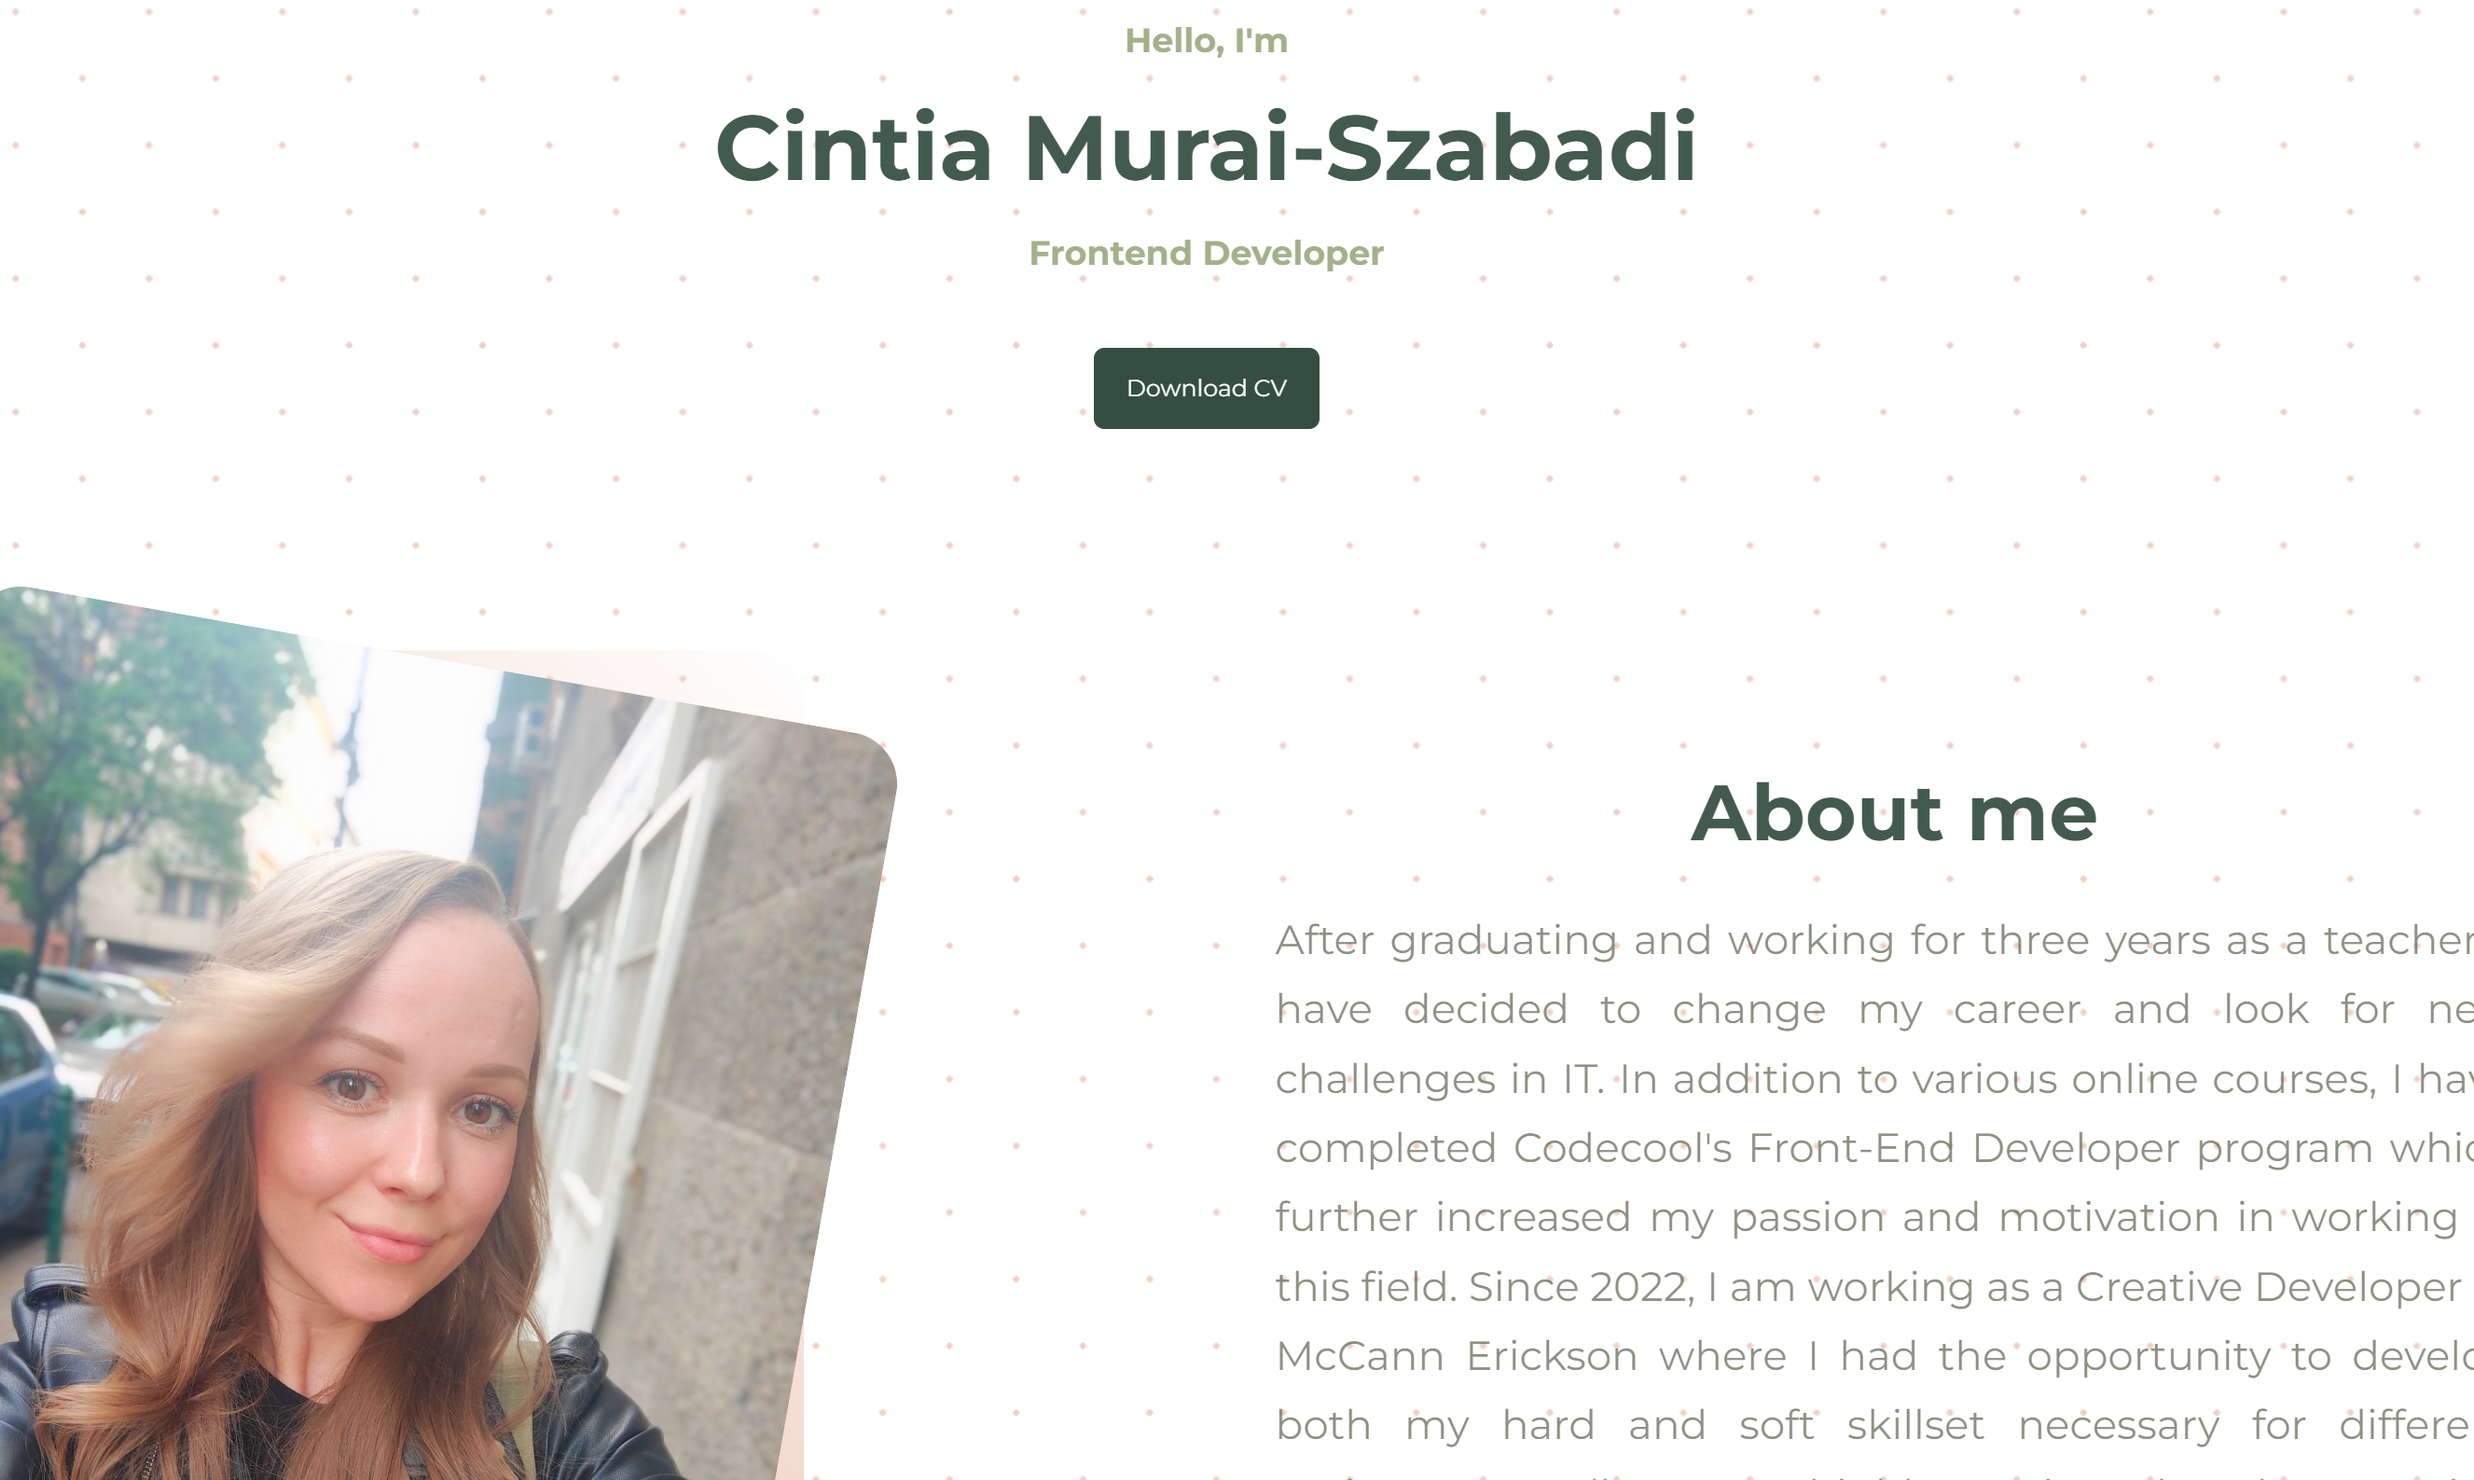
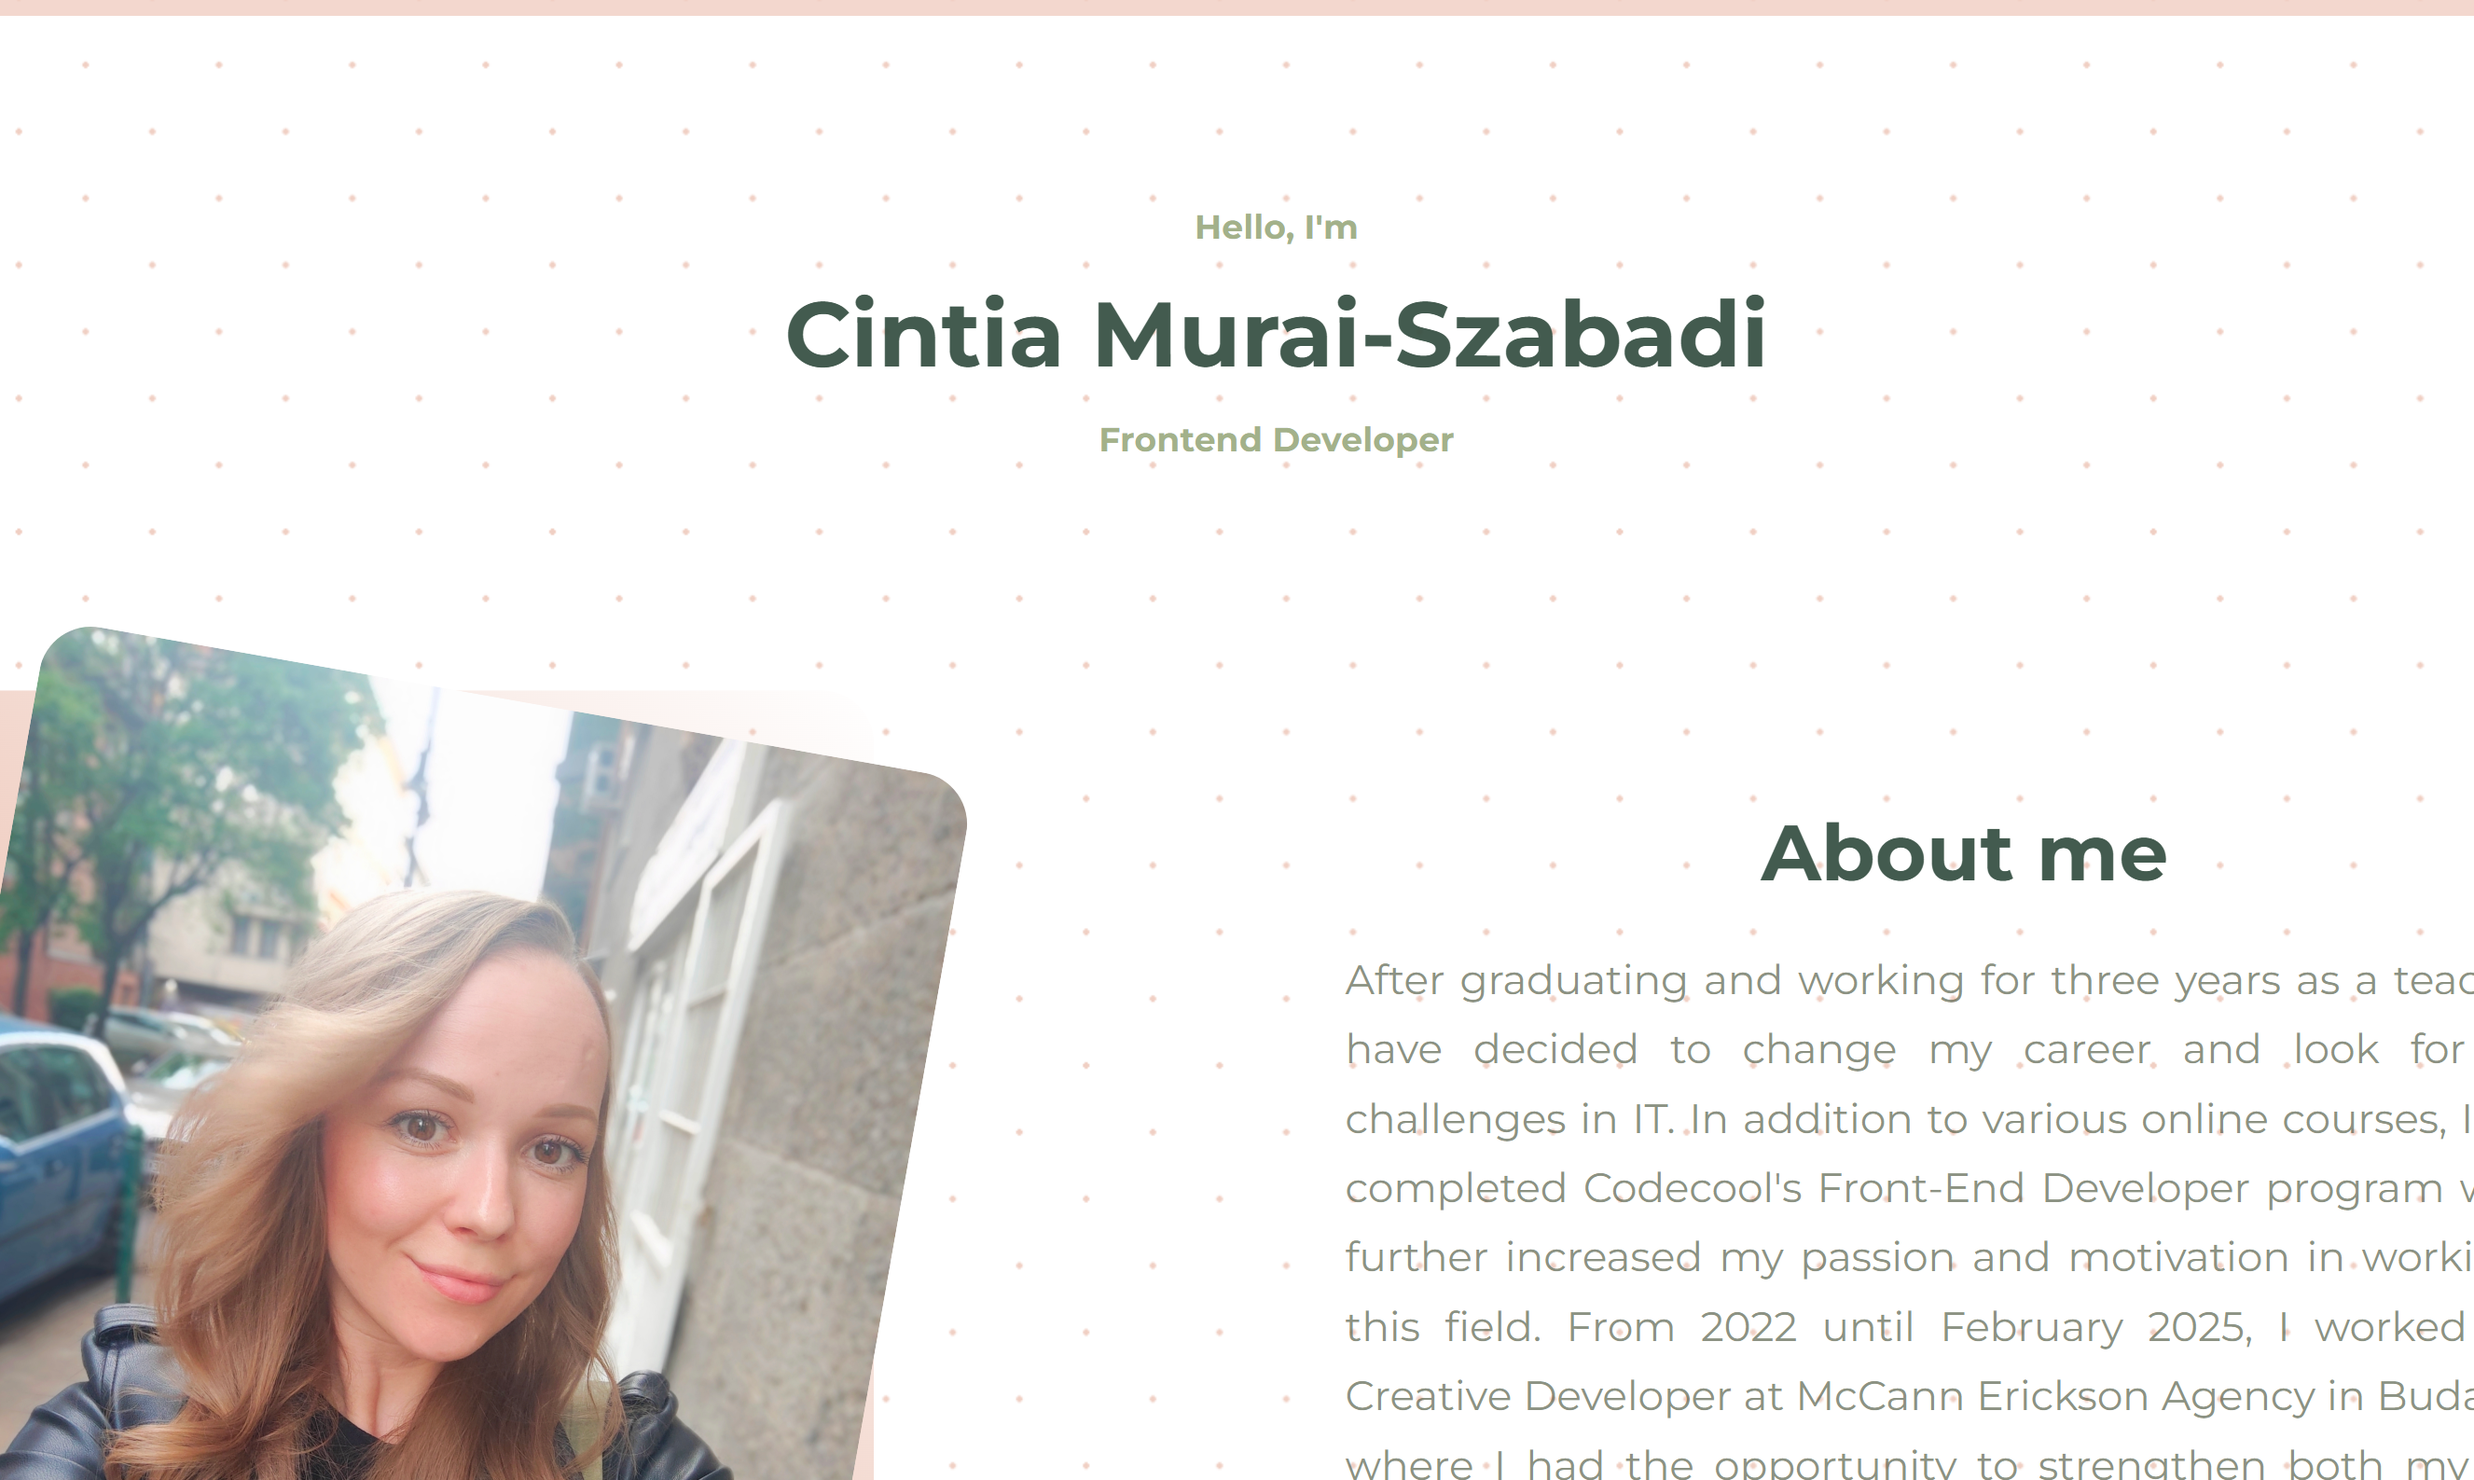
changed the image of the project

Changed region(s): [[0.5254, 0.5249, 1.0, 1.0], [0.0, 0.4014, 0.4018, 1.0], [0.0, 0.0, 1.0, 0.3088]]

diff --git a/src/components/about/About.jsx b/src/components/about/About.jsx
@@ -17,7 +17,7 @@ const About = () => {
           <h2>About me</h2>
           <p>After graduating and working for three years as a teacher, 
           I have decided to change my career and look for new challenges in IT.  In addition to various online courses, 
-          I have completed Codecool's Front-End Developer program which further increased my passion and motivation in working in this field. From 2022 until February 2025, I worked as a Creative Developer at McCann Erickson Agency in Budapest, where I had the opportunity to strengthen both my hard and soft skills across a variety of projects. Since March 2025, I have been participating in the FemaleTech program at Deutsche Telekom IT Solutions Hungary, where I am working on a new internal project that will serve as a knowledge-sharing platform. Overall, I am a highly motivated and easy-going person who always looks for opportunity to learn and develop as a colleague.
+          I have completed Codecool's Front-End Developer program which further increased my passion and motivation in working in this field. From 2022 until February 2025, I worked as a Creative Developer at McCann Erickson Agency in Budapest, where I had the opportunity to strengthen both my hard and soft skills across a variety of projects. Since March 2025, I have been participating in the FemaleTech program at Deutsche Telekom IT Solutions Hungary, where I am working on the development of a new internal project that will serve as a knowledge-sharing platform for the employees of the Firm. Overall, I am a highly motivated and easy-going person who always looks for opportunity to learn and develop as a colleague.
           </p>
         </div>
       </div>
